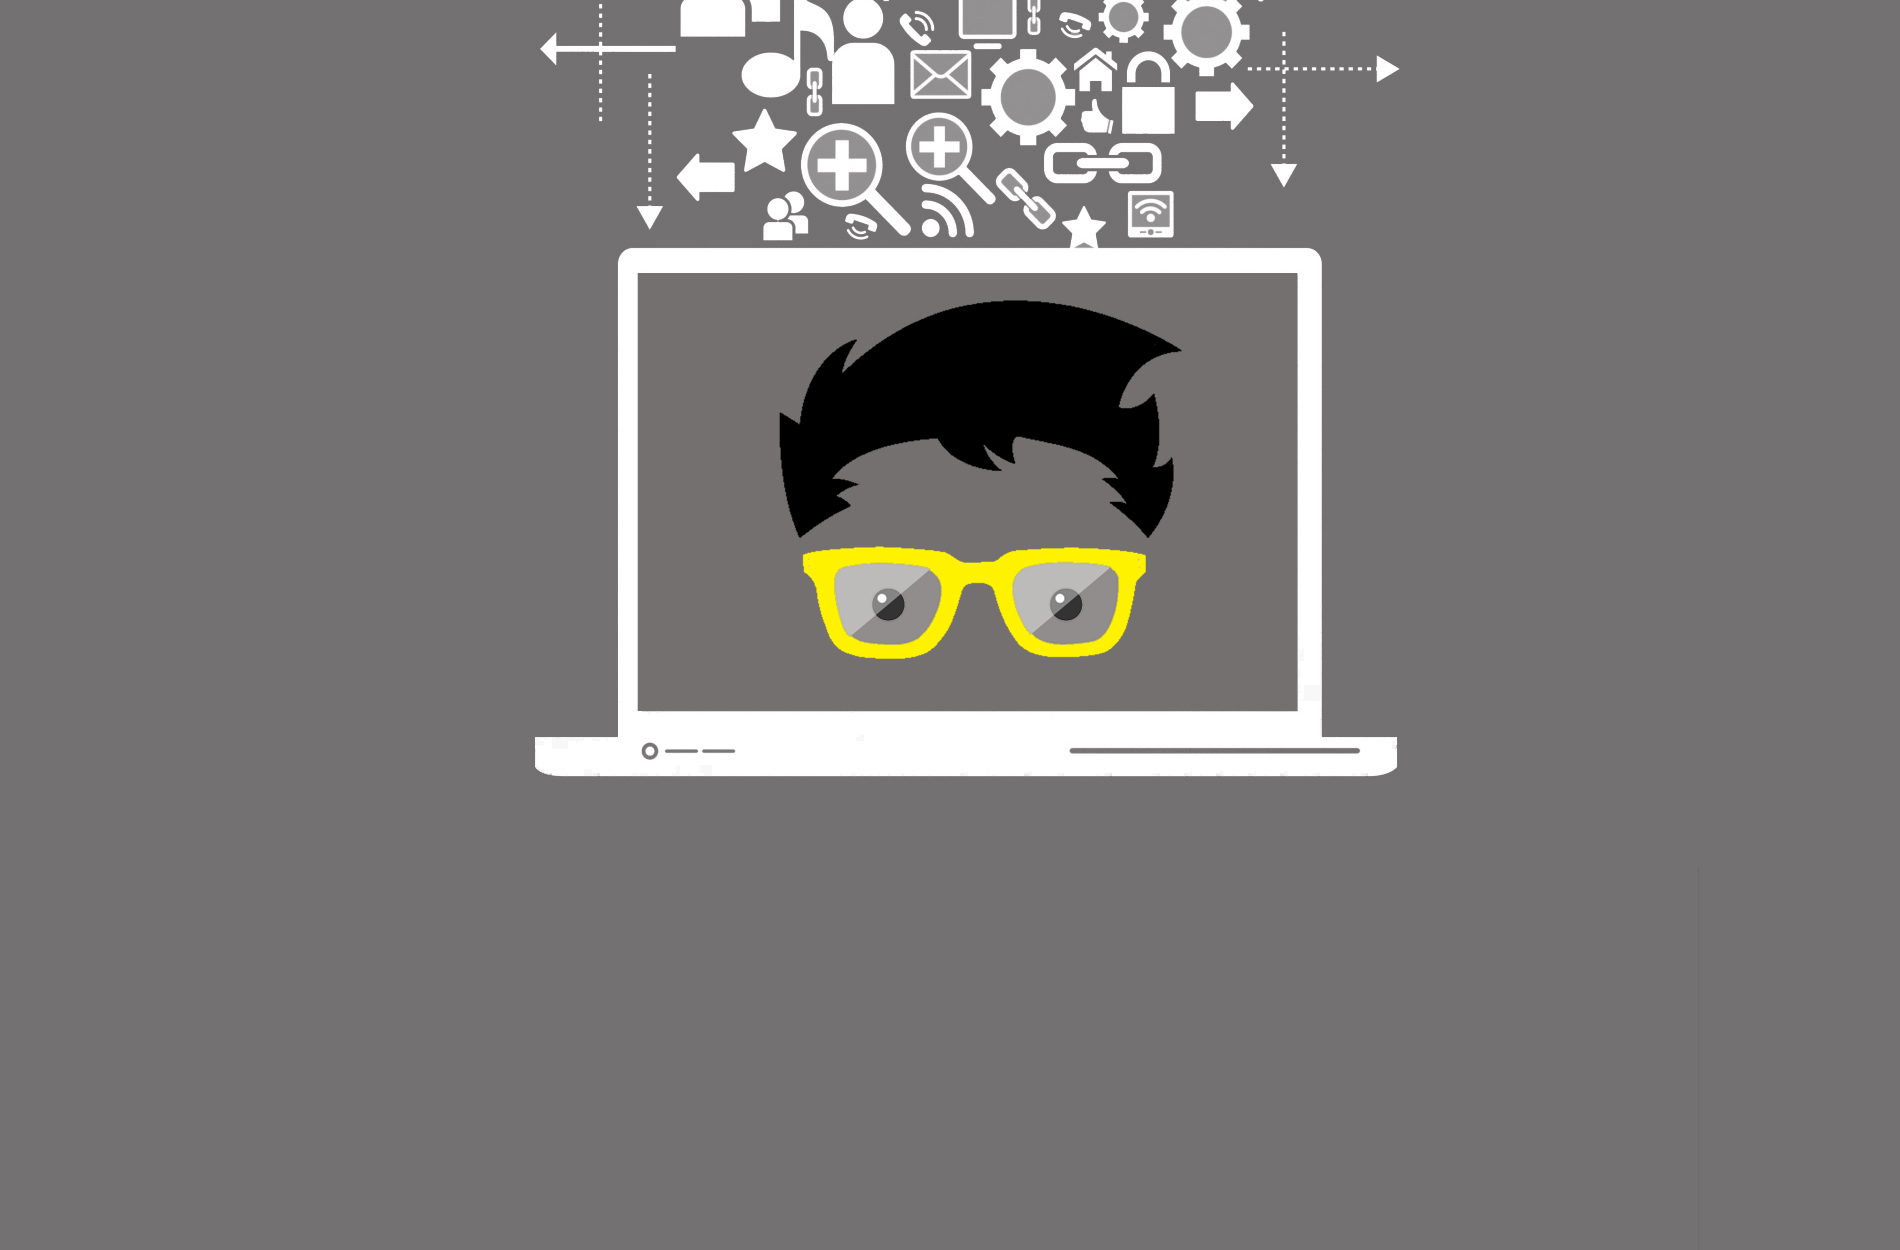
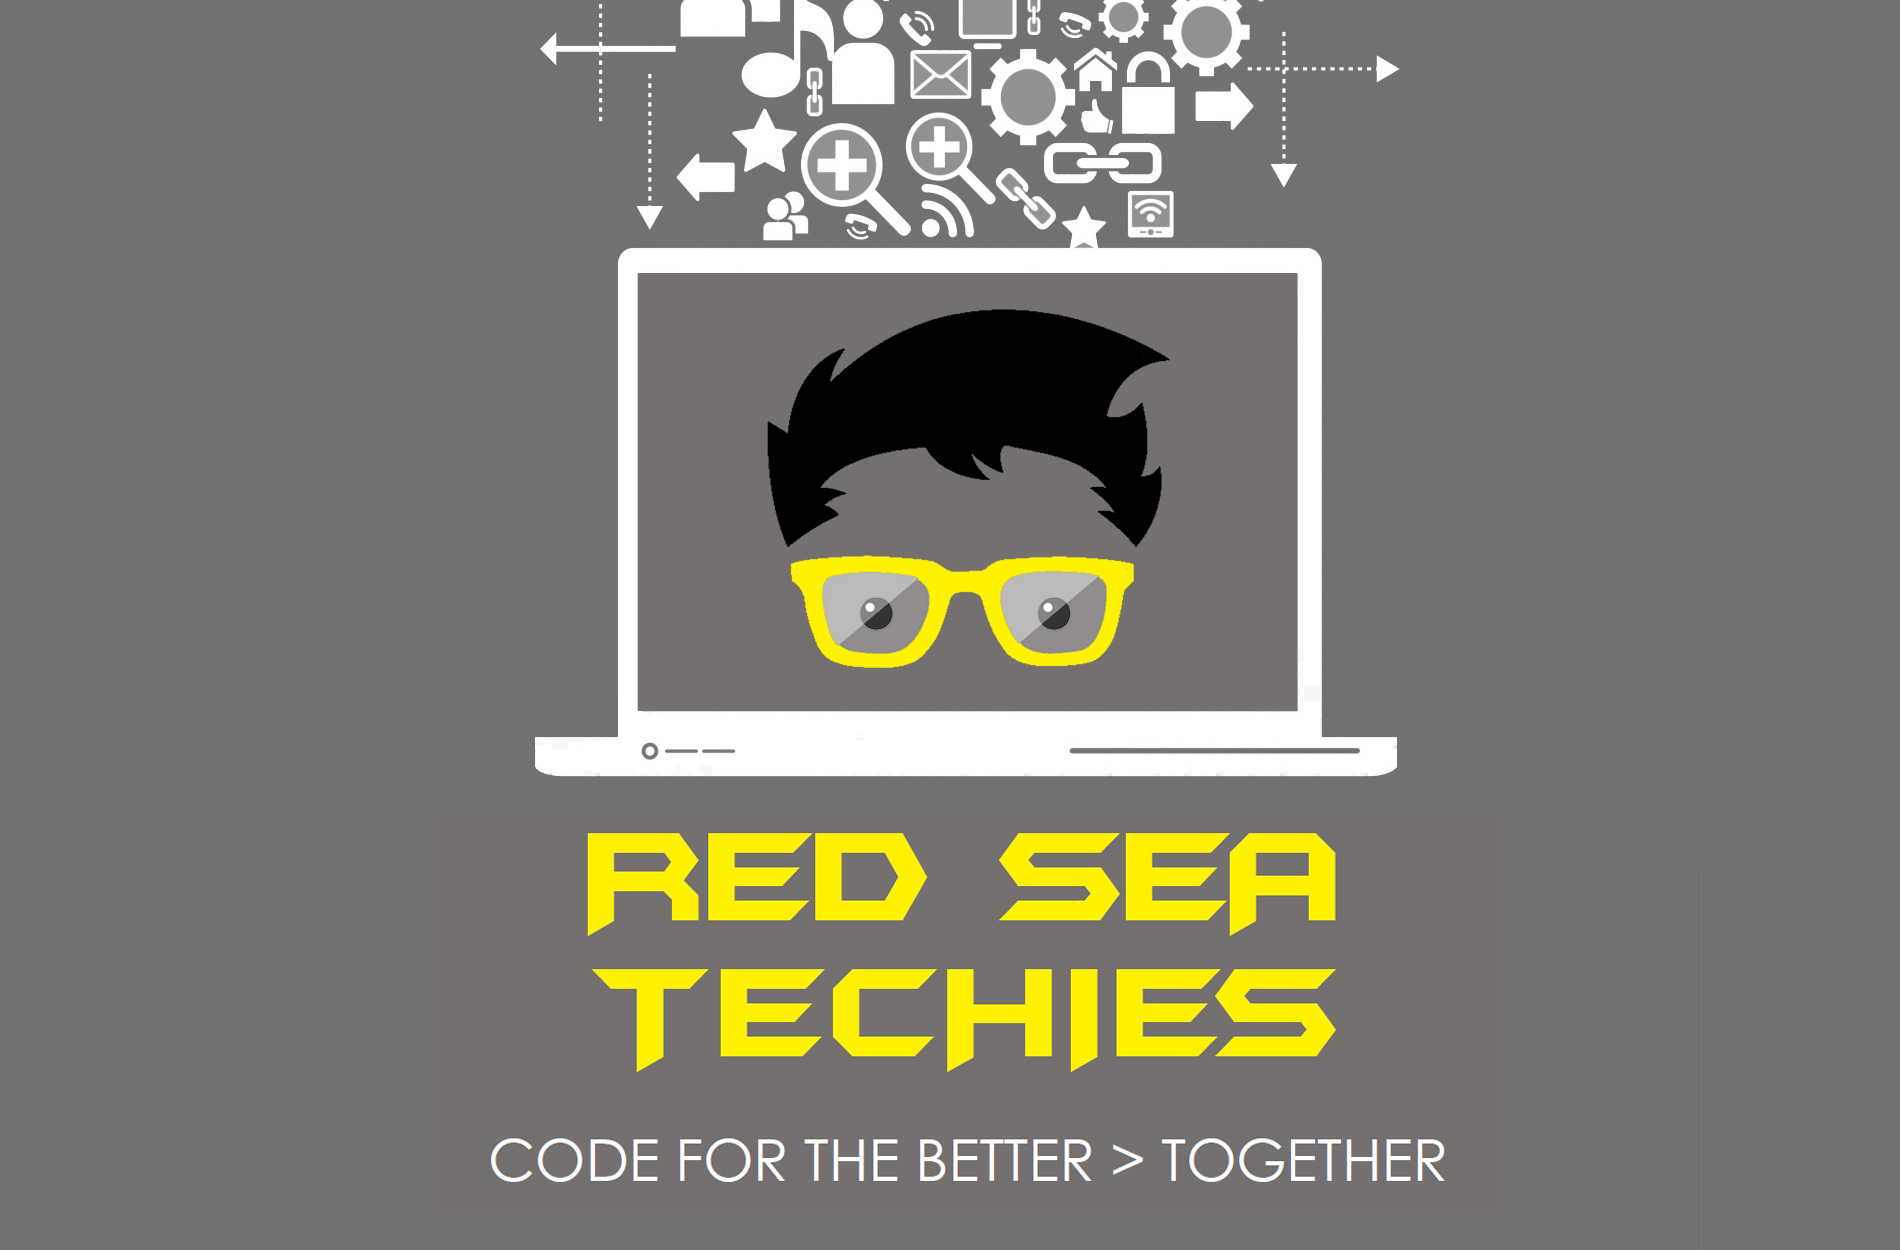
WIP: poster bg with text

diff --git a/_includes/header.html b/_includes/header.html
@@ -31,7 +31,7 @@
                         <a class="page-scroll" href="#team">Group</a>
                     </li>
                     <li>
-                        <a class="page-scroll" href="#contact">Join Now!</a>
+                        <a class="page-scroll" href="#contact">Join Now</a>
                     </li>
                 </ul>
             </div>
@@ -44,8 +44,8 @@
     <header>
         <div class="container">
             <div class="intro-text">
-                <div class="intro-lead-in">Red Sea Techies</div>
-                <div class="intro-heading">code for the better > together</div>
+                <!-- <div class="intro-lead-in">Red Sea Techies</div>
+                <div class="intro-heading">code for the better > together</div> -->
                 <a href="#services" class="page-scroll btn btn-xl">Tell Me More</a>
             </div>
         </div>

diff --git a/_includes/contact.html b/_includes/contact.html
@@ -2,8 +2,8 @@
         <div class="container">
             <div class="row">
                 <div class="col-lg-12 text-center">
-                    <h2 class="section-heading">Join Now</h2>
-                    <h3 class="section-subheading text-muted">"Join the [Geek] Force, Luke."</h3>
+                    <h2 class="section-heading">"Join the Force, Luke."</h2>
+                    <!-- <h3 class="section-subheading text-muted"></h3> -->
                 </div>
             </div>
             <div class="row">
